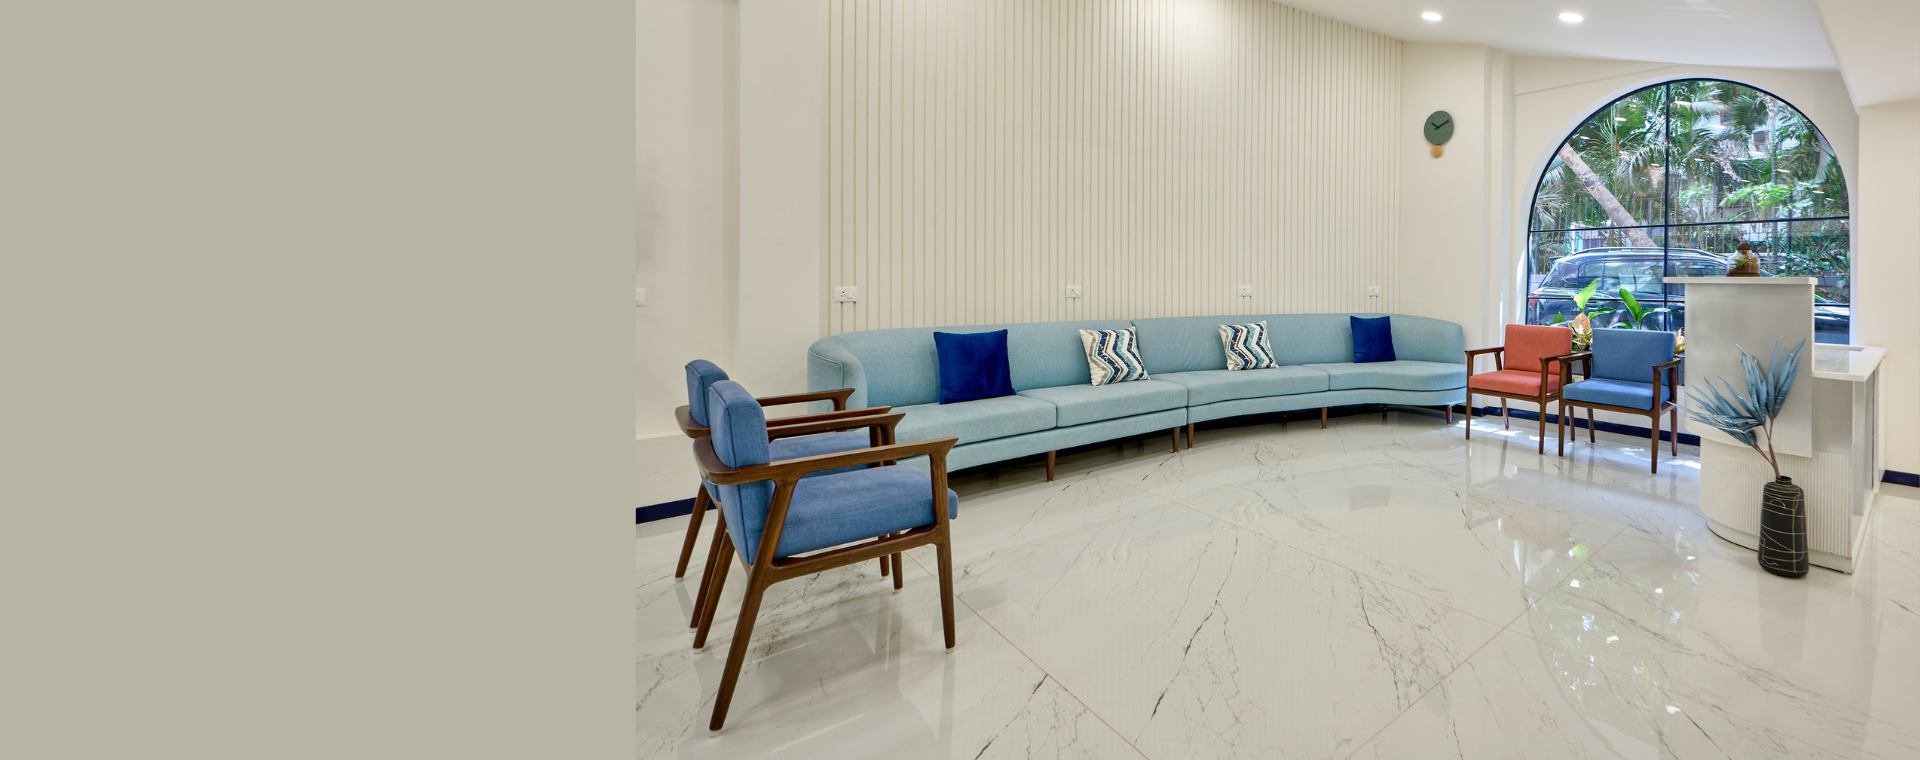
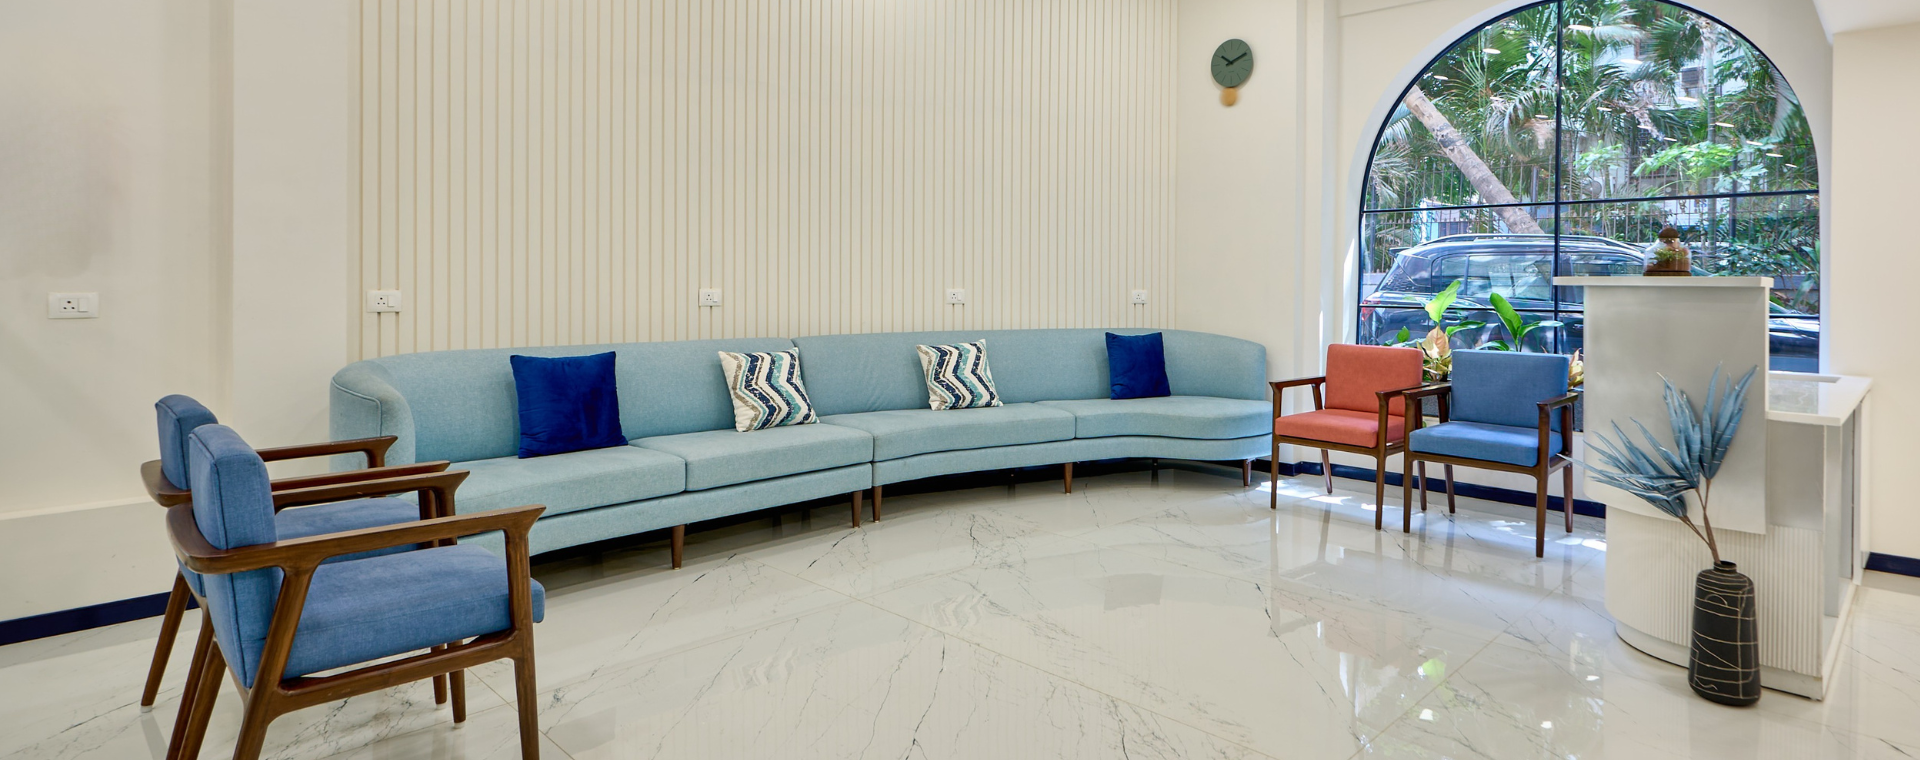
new changes after development

diff --git a/src/app/api/team.js b/src/app/api/team.js
@@ -14,6 +14,7 @@ import NirmalSolanki from "../../../public/doctors/nirmal-solanki.webp";
 import RaenaShah from "../../../public/doctors/raena-shah.webp";
 
 export const team = [
+  // ── Co-founders first ──────────────────────────────
   {
     slug: "sambhav-shah",
     name: "Dr. Sambhav Shah",
@@ -49,6 +50,43 @@ export const team = [
       "Whether your back pain actually needs surgery, what an integrated recovery looks like, and how to build a spine-safe lifestyle.",
     beyondWhiteCoat:
       "Passionate drummer. Sketch artist. Travel enthusiast. Fitness lover. Devoted family man. The creativity, discipline, and empathy that define his life outside the clinic are the same qualities his patients experience inside it."
+  },
+  {
+    slug: "prasham-shah",
+    name: "Dr. Prasham Shah",
+    role: "Consulting Orthopaedic Surgeon and Co-Founder",
+    image: PrashamShah,
+    portraitBg: "bg-[#5b6e7a]",
+    description:
+      "Over 42 years of orthopaedic practice; first Indian surgeon to perform the Ilizarov technique and a pioneer of ozone therapy in Indian orthopaedics.",
+    bio: "Dr. Prasham Shah is one of Mumbai's most decorated orthopaedic surgeons, with over 42 years of active clinical practice. A Grant Medical College and JJ Hospital graduate, he was among the first surgeons in Mumbai to perform arthroscopy, the first Indian surgeon to learn and perform the Russian Ilizarov technique in India, and a pioneer of ozone therapy in orthopaedics.",
+    content: [
+      "Dr. Prasham Shah is one of Mumbai's most experienced and decorated orthopaedic surgeons, with over 42 years of active clinical practice. A graduate of the prestigious Grant Medical College and JJ Hospital, Mumbai, he went on to specialise in Arthroscopic Surgery in the USA and Germany — becoming one of the very first surgeons in Mumbai to perform arthroscopy at a time when the technique was virtually unknown in India.",
+      "That spirit of being first has defined Dr. Shah's career. In 1989, he became the first Indian orthopaedic surgeon to learn and perform the Russian Ilizarov technique in India — a landmark moment in the country's surgical history. He went on to conduct numerous workshops across India and abroad to bring this technique to the wider orthopaedic community, with over 2,500 orthopaedic surgeons from across India having learnt Ilizarov from him directly.",
+      "Today, Dr. Shah's clinical focus has evolved toward Ozone Therapy — a pioneering, minimally invasive approach he has championed for treating slipped discs, rheumatoid arthritis, osteoarthritis, diabetic and alcoholic neuritis, and infected wounds. Once again, he stands at the frontier, having introduced ozone therapy to orthopaedics in India and continuing to expand its clinical application.",
+      "Over four decades, three pioneering firsts, and thousands of patients later, Dr. Prasham Shah remains as curious, committed, and clinically sharp as ever."
+    ],
+    education: [
+      "Grant Medical College and JJ Hospital, Mumbai — MBBS and MS Orthopaedics",
+      "Arthroscopic Surgery — Specialisation, USA and Germany",
+      "Ilizarov Technique — Advanced Training, Russia"
+    ],
+    expertise: [
+      "Arthroscopic surgery",
+      "Ilizarov and limb reconstruction techniques",
+      "Ozone therapy for spine and orthopaedic conditions",
+      "Rheumatoid and osteoarthritis management",
+      "Diabetic and alcoholic neuritis",
+      "Infected wound management",
+      "Complex orthopaedic consultation",
+      "Surgical education and training"
+    ],
+    whySecureClinics:
+      "Dr. Prasham Shah joins @SecureClinics because the model reflects everything he has believed in across four decades of practice — honest, evidence-based care that explores every option before committing to surgery. A clinic where innovation and patient-first thinking are not aspirations but the baseline.",
+    askAbout:
+      "Ozone therapy and what it can treat, whether arthroscopy is right for your condition, and what four decades of orthopaedic practice has taught him about how the body heals.",
+    beyondWhiteCoat:
+      "A pioneer, a teacher, and a clinician who has spent over four decades proving that the best doctors never stop learning — and never stop pushing the boundaries of what medicine can do."
   },
   {
     slug: "dinky-shah",
@@ -122,42 +160,38 @@ export const team = [
       "Athlete at heart. Driven by performance, precision, and the belief that recovery should be as dynamic as the body itself."
   },
   {
-    slug: "prasham-shah",
-    name: "Dr. Prasham Shah",
-    role: "Consulting Orthopaedic Surgeon and Co-Founder",
-    image: PrashamShah,
-    portraitBg: "bg-[#5b6e7a]",
+    slug: "raena-shah",
+    name: "Raena Shah",
+    role: "Co<code>-</code>Founder and COO",
+    image: RaenaShah,
+    portraitBg: "bg-[#7a6a8a]",
     description:
-      "Over 42 years of orthopaedic practice; first Indian surgeon to perform the Ilizarov technique and a pioneer of ozone therapy in Indian orthopaedics.",
-    bio: "Dr. Prasham Shah is one of Mumbai's most decorated orthopaedic surgeons, with over 42 years of active clinical practice. A Grant Medical College and JJ Hospital graduate, he was among the first surgeons in Mumbai to perform arthroscopy, the first Indian surgeon to learn and perform the Russian Ilizarov technique in India, and a pioneer of ozone therapy in orthopaedics.",
+      "Co-Founder and Chief Operating Officer of @SecureClinics — a decade in PR and marketing leadership now driving clinical operations, patient relations, and the day-to-day excellence of the clinic.",
+    bio: "Raena Shah is the Co-Founder and COO of @SecureClinics, bringing a decade of PR and marketing leadership at Communique PR to healthcare operations. She oversees administration, staff management, patient relations, and workflow design — ensuring every part of the patient journey runs smoothly and with genuine care.",
     content: [
-      "Dr. Prasham Shah is one of Mumbai's most experienced and decorated orthopaedic surgeons, with over 42 years of active clinical practice. A graduate of the prestigious Grant Medical College and JJ Hospital, Mumbai, he went on to specialise in Arthroscopic Surgery in the USA and Germany — becoming one of the very first surgeons in Mumbai to perform arthroscopy at a time when the technique was virtually unknown in India.",
-      "That spirit of being first has defined Dr. Shah's career. In 1989, he became the first Indian orthopaedic surgeon to learn and perform the Russian Ilizarov technique in India — a landmark moment in the country's surgical history. He went on to conduct numerous workshops across India and abroad to bring this technique to the wider orthopaedic community, with over 2,500 orthopaedic surgeons from across India having learnt Ilizarov from him directly.",
-      "Today, Dr. Shah's clinical focus has evolved toward Ozone Therapy — a pioneering, minimally invasive approach he has championed for treating slipped discs, rheumatoid arthritis, osteoarthritis, diabetic and alcoholic neuritis, and infected wounds. Once again, he stands at the frontier, having introduced ozone therapy to orthopaedics in India and continuing to expand its clinical application.",
-      "Over four decades, three pioneering firsts, and thousands of patients later, Dr. Prasham Shah remains as curious, committed, and clinically sharp as ever."
+      "Raena Shah is the Co-Founder and Chief Operating Officer of @SecureClinics, where she is the driving force behind the day-to-day excellence that allows the clinic to deliver truly integrated patient care. With a decade-long career built across some of Mumbai's leading PR and marketing firms, Raena brings a rare combination of operational rigour, people-first leadership, and a deep understanding of brand and client relationships to healthcare — a space that demands all three in equal measure.",
+      "At @SecureClinics, Raena oversees the entire operational backbone of the clinic: from administration and staff management to sourcing, payments, and workflow design. She works closely with patients directly — understanding their needs, guiding them through their treatment plans, and ensuring every interaction reflects the clinic's promise of honest, patient-first care. She is equally invested in the team behind the scenes, championing employee wellbeing and building a culture where every staff member feels supported and valued.",
+      "Before co-founding @SecureClinics, Raena spent over a decade at Communique PR and Marketing, eventually rising to head multiple verticals — social media, strategy, administration, marketing, and digital — for a roster of high-profile clients across lifestyle, hospitality, and entertainment. That experience in managing complex client relationships, leading teams, and executing under pressure now shapes the way she runs operations at @SecureClinics."
     ],
     education: [
-      "Grant Medical College and JJ Hospital, Mumbai — MBBS and MS Orthopaedics",
-      "Arthroscopic Surgery — Specialisation, USA and Germany",
-      "Ilizarov Technique — Advanced Training, Russia"
+      "Bachelors of Commerce — K.C. College, Mumbai University",
+      "Masters of Commerce — Lala Lajpat Rai College of Commerce and Economics, Mumbai University"
     ],
     expertise: [
-      "Arthroscopic surgery",
-      "Ilizarov and limb reconstruction techniques",
-      "Ozone therapy for spine and orthopaedic conditions",
-      "Rheumatoid and osteoarthritis management",
-      "Diabetic and alcoholic neuritis",
-      "Infected wound management",
-      "Complex orthopaedic consultation",
-      "Surgical education and training"
+      "Operations and administration management",
+      "Staff sourcing, payments and vendor management",
+      "Patient relations and sales",
+      "Workflow design and process setup",
+      "Employee management and team wellbeing"
     ],
     whySecureClinics:
-      "Dr. Prasham Shah joins @SecureClinics because the model reflects everything he has believed in across four decades of practice — honest, evidence-based care that explores every option before committing to surgery. A clinic where innovation and patient-first thinking are not aspirations but the baseline.",
+      "Raena co-founded @SecureClinics with the belief that great patient care is not just about clinical expertise — it is about the experience around it. From the first phone call to the last follow-up, she ensures every part of the patient journey runs smoothly, honestly, and with genuine care.",
     askAbout:
-      "Ozone therapy and what it can treat, whether arthroscopy is right for your condition, and what four decades of orthopaedic practice has taught him about how the body heals.",
+      "How @SecureClinics is run day-to-day, what to expect when you walk in, and how the clinic supports patients beyond the treatment room.",
     beyondWhiteCoat:
-      "A pioneer, a teacher, and a clinician who has spent over four decades proving that the best doctors never stop learning — and never stop pushing the boundaries of what medicine can do."
+      "When she is not at the clinic, Raena loves to unwind with a good book or cook leisurely in the kitchen. She is always on the lookout for new opportunities and cherishes spending time with family. On a day off, you will likely find her at her holiday home, unwinding and recharging. She also channels her creative side through art and craft — the same curiosity, warmth, and hands-on energy she brings to her work at @SecureClinics every day."
   },
+  // ── Rest of the team ───────────────────────────────
   {
     slug: "krishna-patel",
     name: "Dr. Krishna Patel",
@@ -451,36 +485,4 @@ export const team = [
     beyondWhiteCoat:
       "An active cricket player who believes staying in the game — literally — keeps a clinician honest. The physical discipline he brings to sport is the same he brings to his patients: structured, deliberate, and always focused on the long game."
   },
-  {
-    slug: "raena-shah",
-    name: "Raena Shah",
-    role: "Co<code>-</code>Founder and COO",
-    image: RaenaShah,
-    portraitBg: "bg-[#7a6a8a]",
-    description:
-      "Co-Founder and Chief Operating Officer of @SecureClinics — a decade in PR and marketing leadership now driving clinical operations, patient relations, and the day-to-day excellence of the clinic.",
-    bio: "Raena Shah is the Co-Founder and COO of @SecureClinics, bringing a decade of PR and marketing leadership at Communique PR to healthcare operations. She oversees administration, staff management, patient relations, and workflow design — ensuring every part of the patient journey runs smoothly and with genuine care.",
-    content: [
-      "Raena Shah is the Co-Founder and Chief Operating Officer of @SecureClinics, where she is the driving force behind the day-to-day excellence that allows the clinic to deliver truly integrated patient care. With a decade-long career built across some of Mumbai's leading PR and marketing firms, Raena brings a rare combination of operational rigour, people-first leadership, and a deep understanding of brand and client relationships to healthcare — a space that demands all three in equal measure.",
-      "At @SecureClinics, Raena oversees the entire operational backbone of the clinic: from administration and staff management to sourcing, payments, and workflow design. She works closely with patients directly — understanding their needs, guiding them through their treatment plans, and ensuring every interaction reflects the clinic's promise of honest, patient-first care. She is equally invested in the team behind the scenes, championing employee wellbeing and building a culture where every staff member feels supported and valued.",
-      "Before co-founding @SecureClinics, Raena spent over a decade at Communique PR and Marketing, eventually rising to head multiple verticals — social media, strategy, administration, marketing, and digital — for a roster of high-profile clients across lifestyle, hospitality, and entertainment. That experience in managing complex client relationships, leading teams, and executing under pressure now shapes the way she runs operations at @SecureClinics."
-    ],
-    education: [
-      "Bachelors of Commerce — K.C. College, Mumbai University",
-      "Masters of Commerce — Lala Lajpat Rai College of Commerce and Economics, Mumbai University"
-    ],
-    expertise: [
-      "Operations and administration management",
-      "Staff sourcing, payments and vendor management",
-      "Patient relations and sales",
-      "Workflow design and process setup",
-      "Employee management and team wellbeing"
-    ],
-    whySecureClinics:
-      "Raena co-founded @SecureClinics with the belief that great patient care is not just about clinical expertise — it is about the experience around it. From the first phone call to the last follow-up, she ensures every part of the patient journey runs smoothly, honestly, and with genuine care.",
-    askAbout:
-      "How @SecureClinics is run day-to-day, what to expect when you walk in, and how the clinic supports patients beyond the treatment room.",
-    beyondWhiteCoat:
-      "When she is not at the clinic, Raena loves to unwind with a good book or cook leisurely in the kitchen. She is always on the lookout for new opportunities and cherishes spending time with family. On a day off, you will likely find her at her holiday home, unwinding and recharging. She also channels her creative side through art and craft — the same curiosity, warmth, and hands-on energy she brings to her work at @SecureClinics every day."
-  }
 ];

diff --git a/src/app/components/movinggallery/index.js b/src/app/components/movinggallery/index.js
@@ -3,11 +3,16 @@
 import ConsultButton from "../consultmodal/button";
 
 const galleryImages = [
-    "/common/design1.png",
-    "/common/design2.png",
-    "/common/design3.png",
-    "/common/design4.png",
-    "/common/design5.png",
+    "/common/1.png",
+    "/common/2.png",
+    "/common/3.png",
+    "/common/4.png",
+    "/common/5.png",
+    "/common/6.png",
+    "/common/7.png",
+    "/common/8.png",
+    "/common/9.png",
+    "/common/10.png",
 ];
 
 export default function MovingGallery() {
